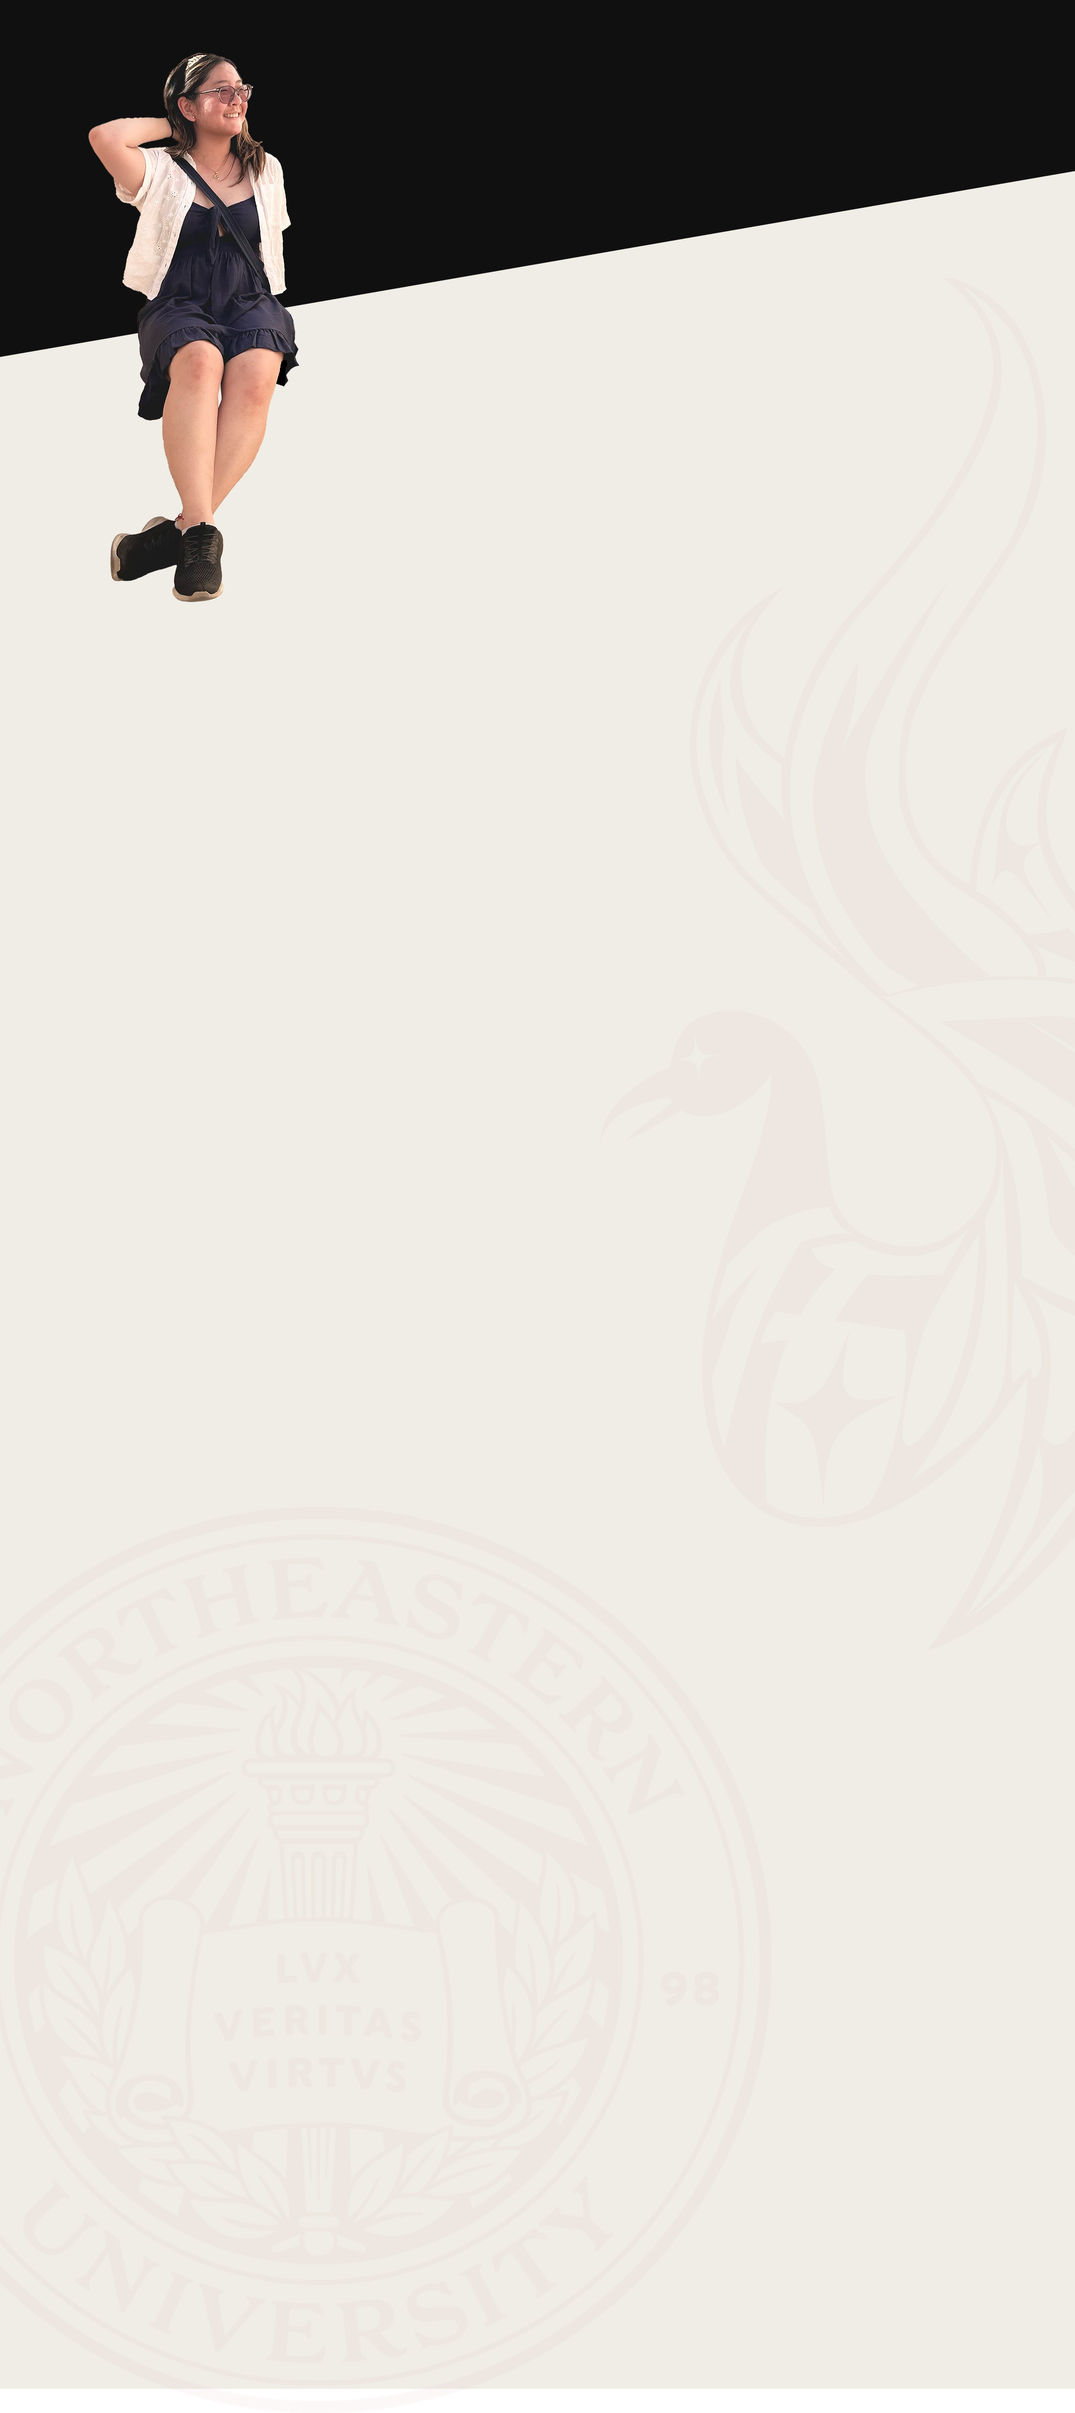
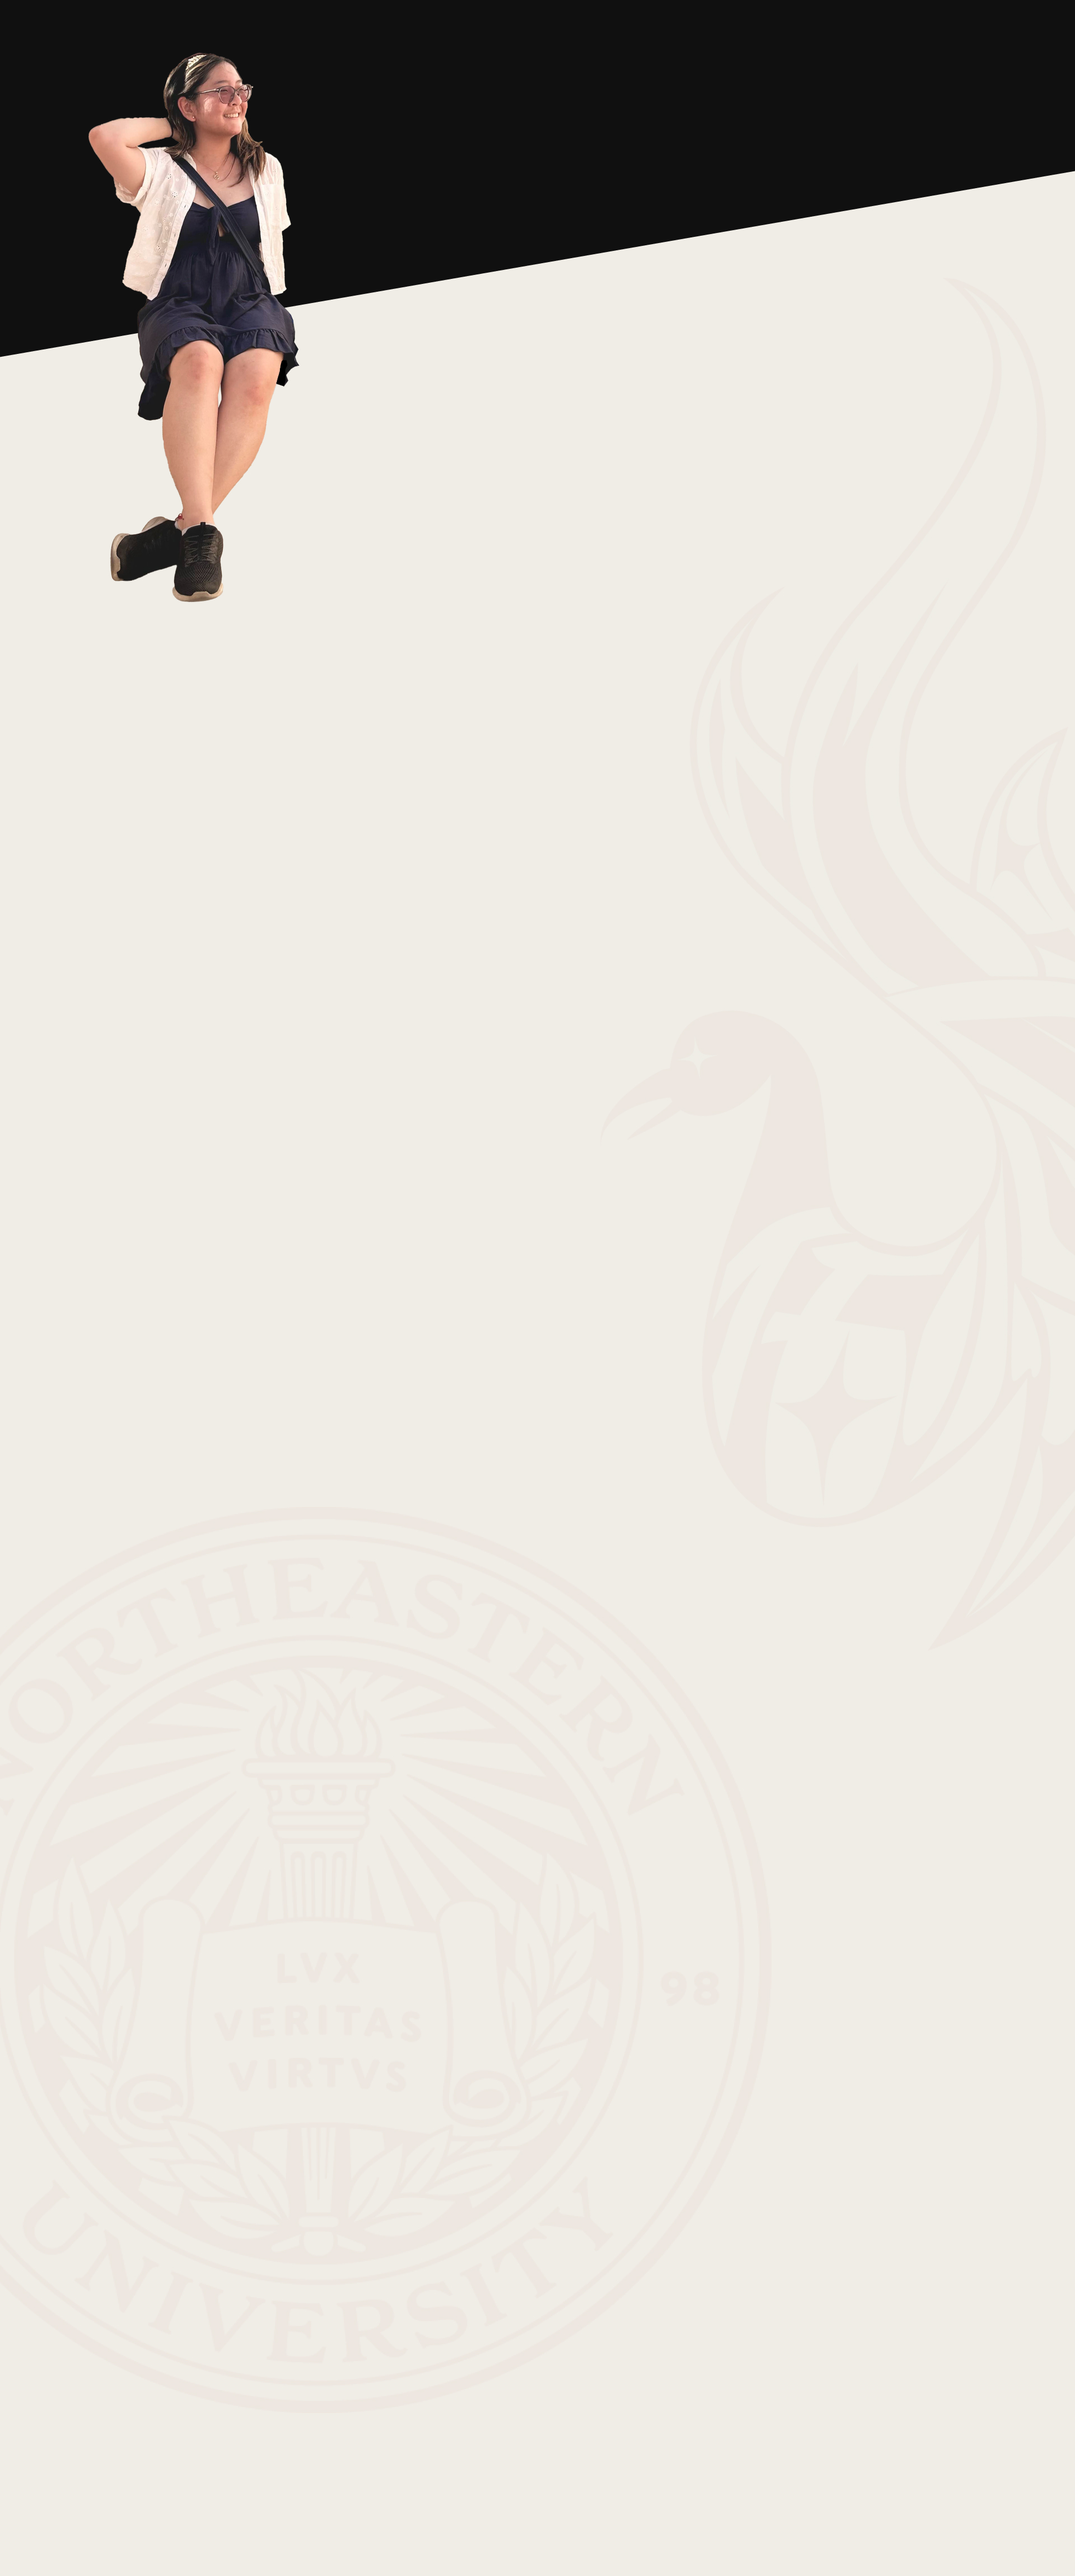
Re-upload the About background without the white strip
The previous export ended in a white band. The replacement is 1920x4600
rather than 1920x4309, so the container height moves with it, from
224.427vw to 239.583vw, and the page still ends exactly where the image
does.

Uploaded with Cache-Control: no-cache, since the S3 key is unchanged and
the old bytes would otherwise stay cached.

diff --git a/src/components/mainpages/about-style.css b/src/components/mainpages/about-style.css
@@ -1,9 +1,9 @@
 .about-container {
-    /* The background is 1920x4309, so at full width it is 224.427vw tall.
+    /* The background is 1920x4600, so at full width it is 239.583vw tall.
        Matching that exactly means the page ends where the image does: no strip
        of bare background below it, and no part of the image cut off. Keep this
        in step with the image if it is ever re-exported. */
-    height: 224.427vw;
+    height: 239.583vw;
     background-size: 100% auto;
     background-position: top center;
     background-repeat: no-repeat;
